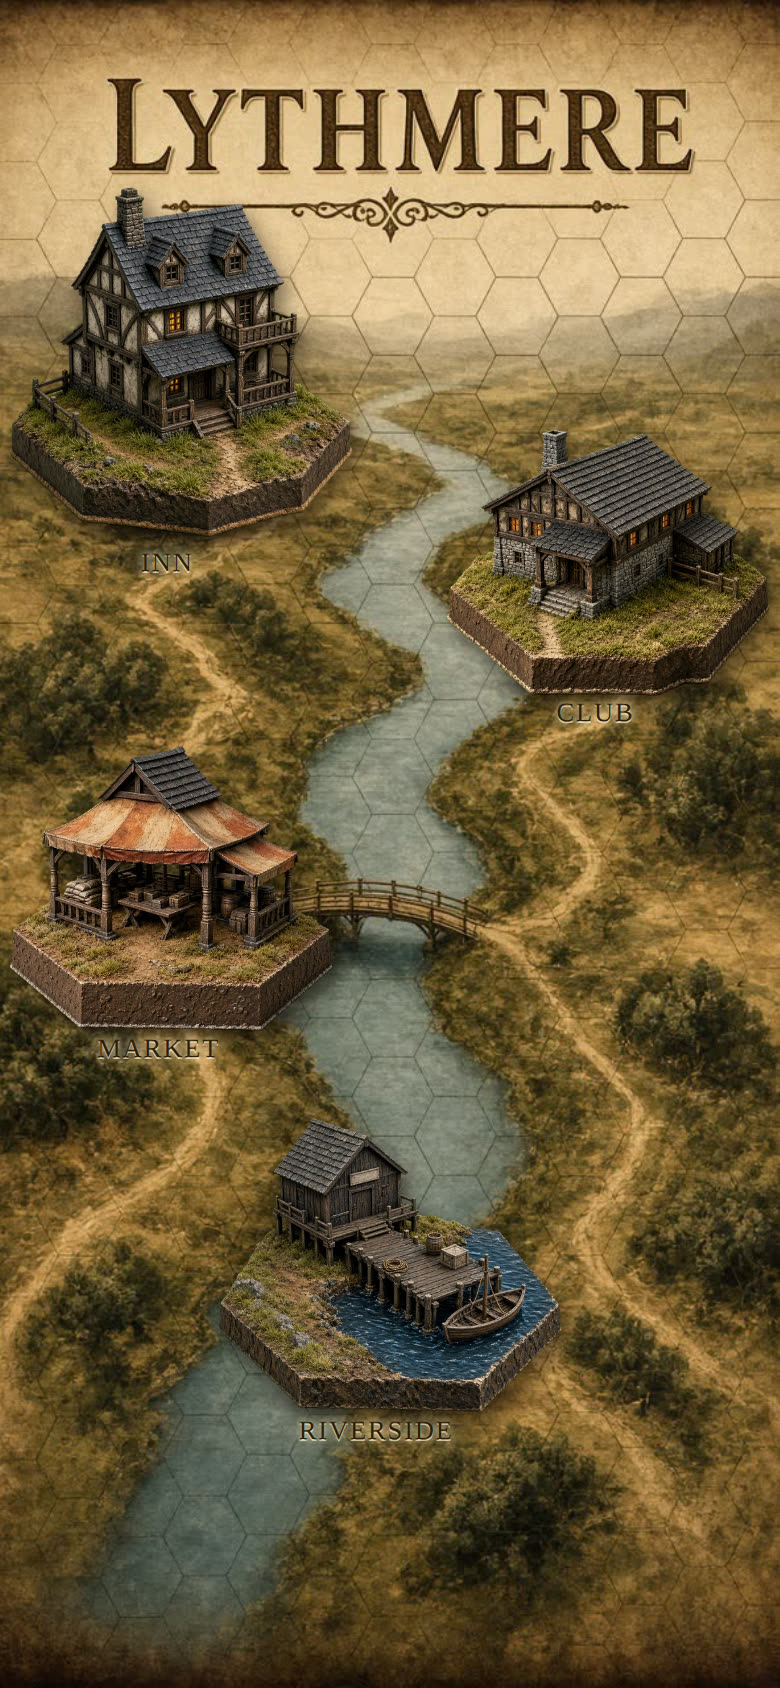
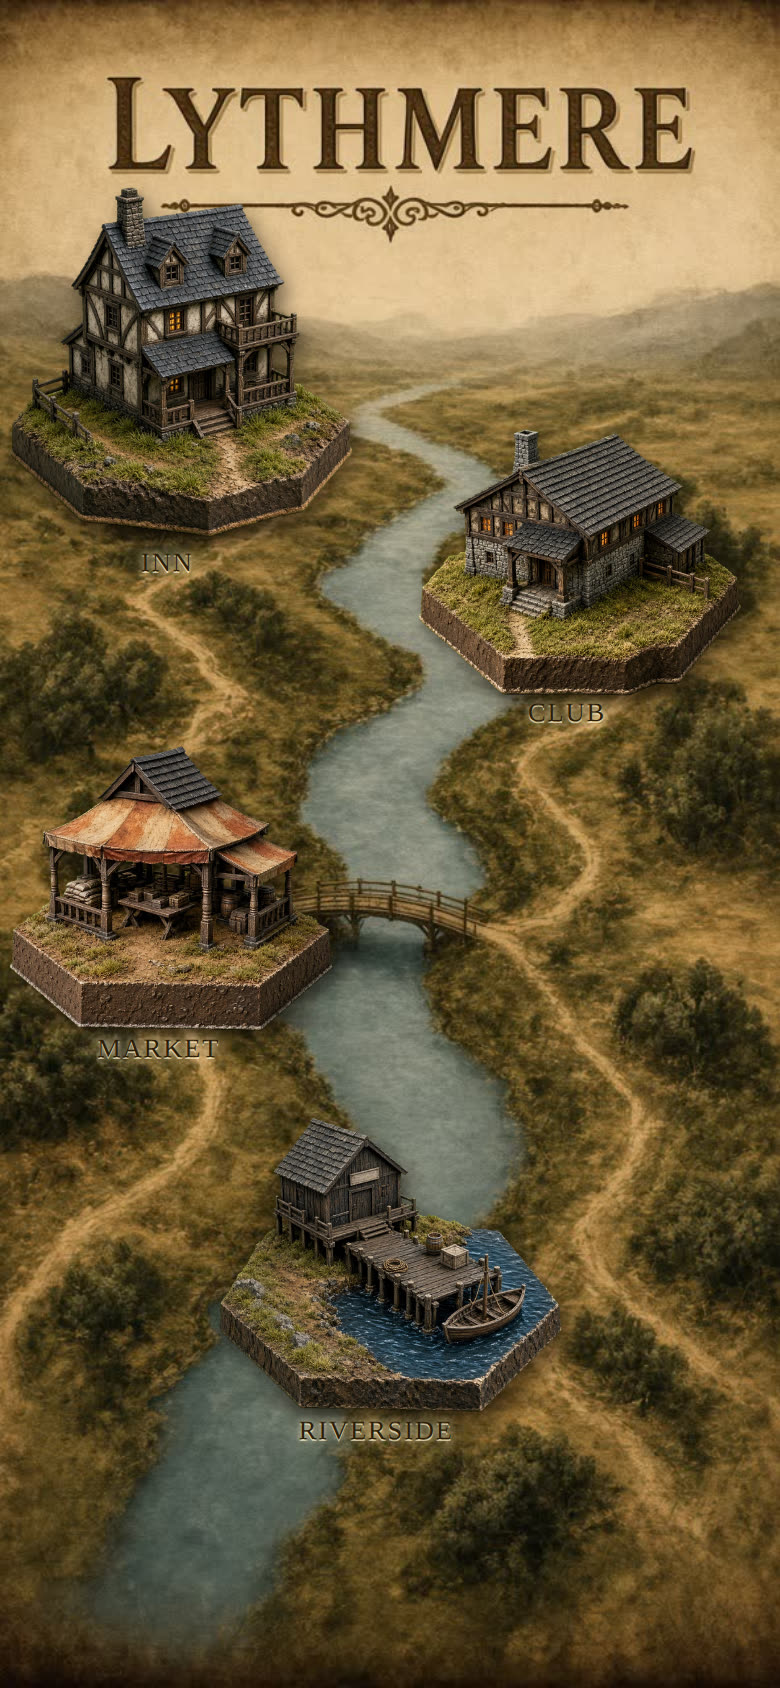
Hide the placer chrome on the look-test and keep selection on the list only.
Dragging a landmark already updates its slot. This just stops the outline
from sitting on the map when you are not placing.

diff --git a/mockups/lythmere-hex-pieces/index.html b/mockups/lythmere-hex-pieces/index.html
@@ -56,8 +56,8 @@
     z-index:-1;
   }
   .piece.is-drag{cursor:grabbing;z-index:80!important}
-  .piece.is-sel img{filter:drop-shadow(3px 5px 5px rgba(18,12,6,.55)) brightness(1.08)}
-  .piece.is-sel::after{
+  body.spotListOn .piece.is-sel img{filter:drop-shadow(3px 5px 5px rgba(18,12,6,.55)) brightness(1.08)}
+  body.spotListOn .piece.is-sel::after{
     content:"";position:absolute;inset:6% 10% 4%;
     border:2px solid #f2e1be;border-radius:6px;pointer-events:none;
   }
@@ -111,6 +111,9 @@
   .locationWell button:last-child{border-right:0}
   .locationWell button.active{color:#1a120c;font-weight:800}
   body.hudOff #hudLayer{display:none}
+  body.chromeOff #spotToggle,
+  body.chromeOff #spotListToggle,
+  body.chromeOff #spotReadout{display:none!important}
 
   #spotToggle,#spotListToggle,#spotReadout{
     position:absolute;z-index:46;right:max(10px, env(safe-area-inset-right, 0px) + 8px);
@@ -208,7 +211,7 @@
      base centre sits, so a tall model rises off the map. */
   const DEFAULTS = [
     { loc:"Inn",       x:28, y:26, w:36, anchor:72 },
-    { loc:"Club",      x:73, y:36, w:34, anchor:67 },
+    { loc:"Club",      x:70, y:36, w:34, anchor:67 },
     { loc:"Market",    x:27, y:56, w:34, anchor:70 },
     { loc:"Riverside", x:50, y:77, w:36, anchor:62 }
   ];
@@ -413,6 +416,7 @@
   }
   if (asked.get("pieces") === "0") document.body.classList.add("piecesOff");
   if (asked.get("grid") === "1") gridOn = true;
+  if (asked.get("chrome") === "0") document.body.classList.add("chromeOff");
   draw();
 })();
 </script>
